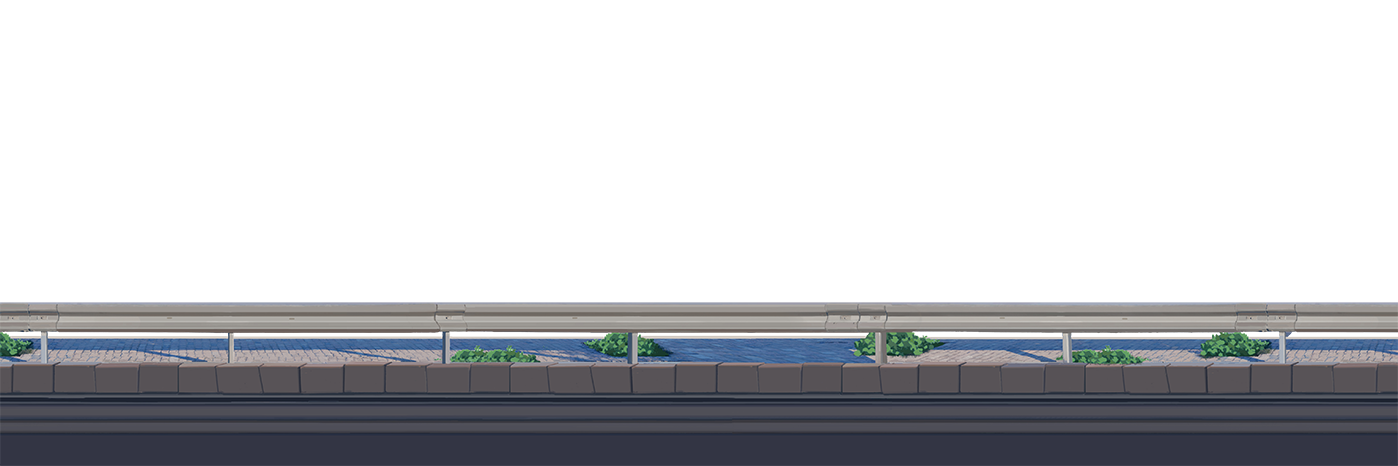
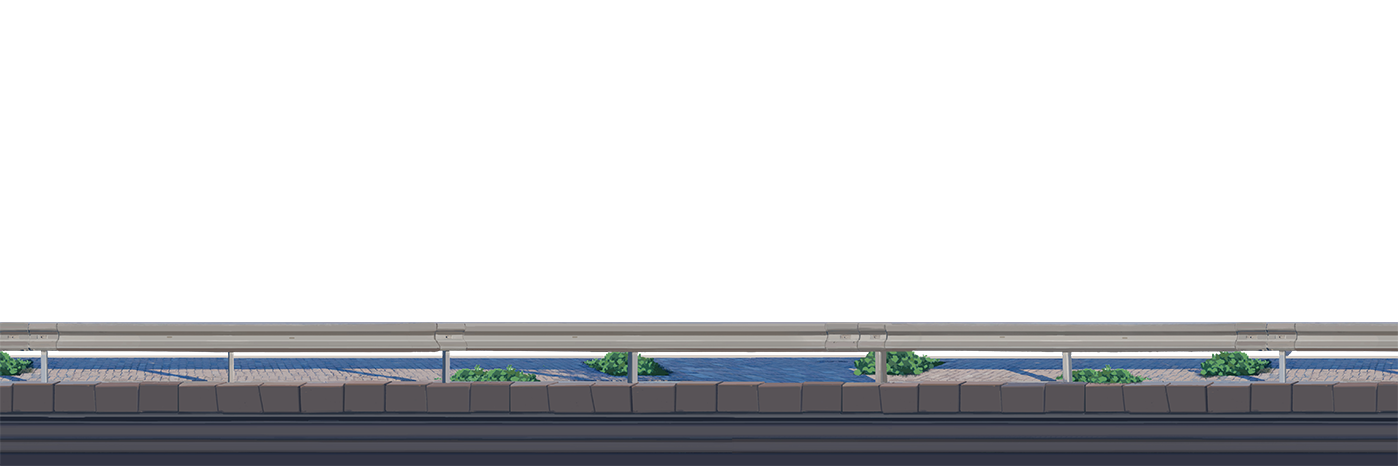
ver1

Changed region(s): [[0.0, 0.6309, 1.0, 0.9914]]

diff --git a/game.min.js b/game.min.js
@@ -1,1 +1,1 @@
-const canvasWidth=430,canvasHeight=932,bgWidth=1398,bgHeight=466,bgScale=1,wordBgColor=["#5bb2d0","#e4c36a","#f2741f"],words=[{word:"eat",attr:1,meaning:"吃"},{word:"apple",attr:2,meaning:"苹果"},{word:"red",attr:3,meaning:"红色"},],totalDistance=2e3;var stage,loader,inputbox,wordText,phase,car,meterPointer,meterText,travelMapCar,currentWordText,currentWordWrapper,acceleratingText,currPosition=0,drivingSpeed=0,drivingSpeedGoal=0,intervalLastMove=0,bonus=0;const bgSequence=["city1.back","city2.back","rural1.back","rural2.back","seaside1.back","seaside2.back"],fgSequence=["city1.front","city2.front","rural1.front","rural2.front","seaside.front","seaside.front"];var bgContainer=new createjs.Container,fgContainer=new createjs.Container,sequenceCounter=0;function init(){stage=new createjs.StageGL("gameCanvas"),createjs.Ticker.timingMode=createjs.Ticker.RAF_SYNCHED,createjs.Ticker.framerate=60,createjs.Ticker.addEventListener("tick",stage);var e=new createjs.Shape;e.graphics.beginLinearGradientFill(["#2573BB","#6CB8DA","#567A32"],[0,.85,1],0,0,0,932).drawRect(0,0,430,932),e.x=0,e.y=0,e.name="background",e.cache(0,0,430,932),stage.addChild(e),phase="city",(loader=new createjs.LoadQueue(!0)).addEventListener("complete",handleComplete),loader.loadManifest([{src:"./src/car.png",id:"car"},{src:"./src/city1-back.png",id:"city1.back"},{src:"./src/city1-front.png",id:"city1.front"},{src:"./src/city2-back.png",id:"city2.back"},{src:"./src/city2-front.png",id:"city2.front"},{src:"./src/rural1-back.jpg",id:"rural1.back"},{src:"./src/rural1-front.png",id:"rural1.front"},{src:"./src/rural2-back.jpg",id:"rural2.back"},{src:"./src/rural2-front.png",id:"rural2.front"},{src:"./src/seaside1-back.jpg",id:"seaside1.back"},{src:"./src/seaside2-back.jpg",id:"seaside2.back"},{src:"./src/seaside-front.png",id:"seaside.front"},{src:"./src/pointer.png",id:"pointer"},{src:"./src/clock.png",id:"clock"},{src:"./src/travelmap.png",id:"travelmap"},{src:"./src/travelmapcar.png",id:"travelmapcar"},],!0,"./"),stage.update()}function loadWords(){}function generateRandomWord(){let e=Math.floor(Math.random()*words.length),r=words[e].word,t=wordBgColor[words[e].attr-1];var a=new createjs.Text(r,"22px sans-serif","#000000");a.x=10,a.y=7;var n=a.getBounds();a.cache(n.x,n.y,n.width,n.height),null!=currentWordWrapper&&stage.removeChild(currentWordWrapper),currentWordWrapper=new createjs.Container,(wordBg=new createjs.Shape).graphics.beginFill(t).drawRoundRect(0,0,a.getMeasuredWidth()+20,34,10),wordBg.cache(0,0,a.getMeasuredWidth()+20,34),currentWordWrapper.addChild(wordBg),currentWordWrapper.addChild(a),currentWordWrapper.x=10,currentWordWrapper.y=470,stage.addChild(currentWordWrapper)}function handleComplete(){createInput(),createBg(),createCar(),createFg(),createMeter(),createTravelMap(),generateRandomWord(),createjs.Ticker.addEventListener("tick",handleTick)}function createInput(){var e=new createjs.Shape;e.graphics.beginFill("#EEEEEE").drawRect(0,0,430,80),e.x=0,e.y=466,e.cache(0,0,430,80),stage.addChild(e),(inputbox=document.createElement("input")).type="text",inputbox.style.position="fixed",inputbox.style.left="14px",inputbox.style.top="518px",inputbox.style.width="416px",inputbox.style.fontSize="20",inputbox.onkeydown=handleEnter,document.body.appendChild(inputbox),inputbox.focus()}function createBg(){bgSequence.map((e,r)=>{(obj=new createjs.Bitmap(loader.getResult(e))).x=1398*r,obj.y=0,obj.scale=1,bgContainer.addChild(obj)}),bgContainer.x=0,bgContainer.y=0,stage.addChild(bgContainer)}function createFg(){fgSequence.map((e,r)=>{obj1=new createjs.Bitmap(loader.getResult(e)),obj2=new createjs.Bitmap(loader.getResult(e)),obj1.x=2*r*1398,obj2.x=(2*r+1)*1398,obj1.y=0,obj2.y=0,obj1.scale=1,obj2.scale=1,fgContainer.addChild(obj1,obj2)}),fgContainer.x=0,fgContainer.y=0,stage.addChild(fgContainer)}function createCar(){(car=new createjs.Bitmap(loader.getResult("car"))).x=85,car.y=190,car.scale=.4,stage.addChild(car)}function createMeter(){var e=new createjs.Container,r=new createjs.Shape;r.alpha=.25,r.graphics.beginFill("#399205").drawRoundRect(0,0,100,123,15),r.cache(0,0,100,123);var t=new createjs.Bitmap(loader.getResult("clock")),a=new createjs.Bitmap(loader.getResult("pointer"));a.scale=110/300,a.x=-55,a.y=-55,(meterPointer=new createjs.Container).addChild(a),meterPointer.x=53,meterPointer.y=55.5,t.x=-4,t.y=0;var n=new createjs.Text("KM/H","12px sans-serif","#FFFFFF");n.textAlign="center",n.shadow=new createjs.Shadow("#000000",1,1,2);var i=n.getBounds();n.cache(i.x,i.y,i.width,i.height),n.x=51,n.y=111,(meterText=new createjs.Text(Math.round(drivingSpeed).toString(),"26px sans-serif","#FFFFFF")).textAlign="center",i=meterText.getBounds(),meterText.cache(i.x-i.width,i.y,3*i.width,i.height),meterText.x=51,meterText.y=80,(acceleratingText=new createjs.Text("加速中","22px sans-serif","#FFFFFF")).textAlign="center",i=acceleratingText.getBounds(),acceleratingText.cache(i.x,i.y,i.width,i.height),acceleratingText.x=51,acceleratingText.y=-24,e.addChild(r,n,meterText,acceleratingText,t,meterPointer),e.x=320,e.y=330,stage.addChild(e)}function updateMeter(){meterPointer.rotation=drivingSpeed/80*190-6,meterText.text=Math.round(drivingSpeed).toString(),meterText.updateCache(),bonus>0?acceleratingText.visible=!0:acceleratingText.visible=!1}function createTravelMap(){var e=new createjs.Container;e.x=45,e.y=50;var r=new createjs.Bitmap(loader.getResult("travelmap"));(travelMapCar=new createjs.Bitmap(loader.getResult("travelmapcar"))).x=0,travelMapCar.y=6,e.addChild(r,travelMapCar),stage.addChild(e)}function updateTravelMap(){travelMapCar.x=currPosition/2e3*340}function handleTick(e){currPosition+=e.delta/1e3*drivingSpeed,drivingSpeed+=(drivingSpeedGoal-drivingSpeed)*.1,currPosition<2e3?(bgContainer.x=-(1398*bgSequence.length-430)*(currPosition/2e3),fgContainer.x=-(2*bgSequence.length*1398-430)*(currPosition/2e3)):currPosition=0,intervalLastMove<=0?(bonus=0,drivingSpeedGoal=Math.max(0,drivingSpeedGoal-.01*e.delta)):intervalLastMove-=e.delta,updateMeter(),updateTravelMap()}function handleEnter(e){13==e.keyCode&&(inputbox.value="",drivingSpeedGoal=Math.min(80,drivingSpeedGoal+5+bonus),bonus=Math.min(35,bonus+5),intervalLastMove=4e3,generateRandomWord())}
+const canvasWidth=430,canvasHeight=466;var stage,loader,inputbox,wordText,car,meterPointer,meterText,travelMapCar,currentWordText,currentWordWrapper,acceleratingText,canvasScale=1;const bgWidth=1398,bgHeight=466;var bgScale=.8;const wordBgColor=["#5bb2d0","#e4c36a","#f2741f"];var words=[];const totalDistance=2e3;var currPosition=0,drivingSpeed=0,targetDrivingSpeed=0,intervalLastMove=0,bonus=0;const bgSequence=["city1.back","city2.back","rural1.back","rural2.back","seaside1.back","seaside2.back"],fgSequence=["city1.front","city2.front","rural1.front","rural2.front","seaside.front","seaside.front"];var bgContainer=new createjs.Container,fgContainer=new createjs.Container,sequenceCounter=0;function init(){(stage=new createjs.StageGL("gameCanvas")).setClearColor("#000000"),createjs.Ticker.timingMode=createjs.Ticker.RAF_SYNCHED,createjs.Ticker.framerate=60,createjs.Ticker.addEventListener("tick",stage),window.addEventListener("resize",handleResize),handleResize(),phase="city",(loader=new createjs.LoadQueue(!0)).addEventListener("complete",handleComplete),loader.loadManifest([{src:"./src/car.png",id:"car"},{src:"./src/city1-back.png",id:"city1.back"},{src:"./src/city1-front.png",id:"city1.front"},{src:"./src/city2-back.png",id:"city2.back"},{src:"./src/city2-front.png",id:"city2.front"},{src:"./src/rural1-back.jpg",id:"rural1.back"},{src:"./src/rural1-front.png",id:"rural1.front"},{src:"./src/rural2-back.jpg",id:"rural2.back"},{src:"./src/rural2-front.png",id:"rural2.front"},{src:"./src/seaside1-back.png",id:"seaside1.back"},{src:"./src/seaside2-back.png",id:"seaside2.back"},{src:"./src/seaside-front.png",id:"seaside.front"},{src:"./src/pointer.png",id:"pointer"},{src:"./src/clock.png",id:"clock"},{src:"./src/travelmap.png",id:"travelmap"},{src:"./src/travelmapcar.png",id:"travelmapcar"},],!0,"./"),loadWords(),stage.update()}function loadWords(){fetch("./src/words.json").then(e=>{if(!e.ok)throw Error(`HTTP error! Status: ${e.status}`);return e.json()}).then(e=>{if(!Array.isArray(e))throw Error("JSON data is not an array");words=e}).catch(e=>{console.error("Fetch error:",e)})}function generateRandomWord(){let e=Math.floor(Math.random()*words.length),r=words[e].meaning,t=wordBgColor[words[e].attr-1];currentWordText=words[e].word;var a=new createjs.Text(r,"22px sans-serif","#000000");a.x=10,a.y=7;var n=a.getBounds();a.cache(n.x,n.y,n.width,n.height),null!=currentWordWrapper&&stage.removeChild(currentWordWrapper),currentWordWrapper=new createjs.Container,(wordBg=new createjs.Shape).graphics.beginFill(t).drawRoundRect(0,0,a.getMeasuredWidth()+10,34,10),wordBg.cache(0,0,a.getMeasuredWidth()+20,34),currentWordWrapper.addChild(wordBg),currentWordWrapper.addChild(a),currentWordWrapper.x=10*canvasScale,currentWordWrapper.y=472*bgScale,stage.addChild(currentWordWrapper)}function handleComplete(){createInput(),createBg(),createCar(),createFg(),createMeter(),createTravelMap(),generateRandomWord(),createjs.Ticker.addEventListener("tick",handleTick)}function createInput(){var e=new createjs.Shape;e.graphics.beginFill("#EEEEEE").drawRect(0,0,430,80),e.x=0,e.y=466*bgScale,e.cache(0,0,430,80),stage.addChild(e),(inputbox=document.createElement("input")).type="text",inputbox.style.margin="0px",inputbox.style.position="fixed",inputbox.style.left="6px",resizeInputBox(),inputbox.onkeydown=handleEnter,document.body.appendChild(inputbox),inputbox.focus()}function resizeInputBox(){inputbox.style.top=522*canvasScale*bgScale+"px",inputbox.style.width=430*canvasScale-12+"px",inputbox.style.fontSize=Math.round(20*canvasScale)+"px"}function createBg(){bgSequence.map((e,r)=>{(obj=new createjs.Bitmap(loader.getResult(e))).x=1398*r*bgScale,obj.y=0,obj.scale=bgScale,bgContainer.addChild(obj)}),bgContainer.x=0,bgContainer.y=0,stage.addChild(bgContainer)}function createFg(){fgSequence.map((e,r)=>{obj1=new createjs.Bitmap(loader.getResult(e)),obj2=new createjs.Bitmap(loader.getResult(e)),obj1.x=2*r*1398*bgScale,obj2.x=(2*r+1)*1398*bgScale,obj1.y=0,obj2.y=0,obj1.scale=bgScale,obj2.scale=bgScale,fgContainer.addChild(obj1,obj2)}),fgContainer.x=0,fgContainer.y=0,stage.addChild(fgContainer)}function createCar(){(car=new createjs.Bitmap(loader.getResult("car"))).x=85,car.y=180*bgScale,car.scale=.4,stage.addChild(car)}function createMeter(){var e=new createjs.Container,r=new createjs.Shape;r.alpha=.25,r.graphics.beginFill("#399205").drawRoundRect(0,0,100,123,15),r.cache(0,0,100,123);var t=new createjs.Bitmap(loader.getResult("clock")),a=new createjs.Bitmap(loader.getResult("pointer"));a.scale=110/300,a.x=-55,a.y=-55,(meterPointer=new createjs.Container).addChild(a),meterPointer.x=53,meterPointer.y=55.5,t.x=-4,t.y=0;var n=new createjs.Text("KM/H","12px sans-serif","#FFFFFF");n.textAlign="center",n.shadow=new createjs.Shadow("#000000",1,1,2);var i=n.getBounds();n.cache(i.x,i.y,i.width,i.height),n.x=51,n.y=111,(meterText=new createjs.Text(Math.round(drivingSpeed).toString(),"26px sans-serif","#FFFFFF")).textAlign="center",i=meterText.getBounds(),meterText.cache(i.x-i.width,i.y,3*i.width,i.height),meterText.x=51,meterText.y=80,(acceleratingText=new createjs.Text("加速中","22px sans-serif","#FFFFFF")).textAlign="center",i=acceleratingText.getBounds(),acceleratingText.cache(i.x,i.y,i.width,i.height),acceleratingText.x=51,acceleratingText.y=-24,e.addChild(r,n,meterText,acceleratingText,t,meterPointer),e.scale=.75,e.x=347.5,e.y=466*bgScale-99.75,stage.addChild(e)}function updateMeter(){meterPointer.rotation=drivingSpeed/80*190-6,meterText.text=Math.round(drivingSpeed).toString(),meterText.updateCache(),bonus>0?acceleratingText.visible=!0:acceleratingText.visible=!1}function createTravelMap(){var e=new createjs.Container,r=new createjs.Bitmap(loader.getResult("travelmap"));(travelMapCar=new createjs.Bitmap(loader.getResult("travelmapcar"))).x=0,travelMapCar.y=6,e.addChild(r,travelMapCar),e.scale=.75,e.x=141.25,e.y=10,stage.addChild(e)}function updateTravelMap(){travelMapCar.x=currPosition/2e3*340}function handleTick(e){currPosition+=e.delta/1e3*drivingSpeed,drivingSpeed+=(targetDrivingSpeed-drivingSpeed)*.1,currPosition<2e3?(bgContainer.x=-(1398*bgSequence.length*bgScale-430*canvasScale)*(currPosition/2e3),fgContainer.x=-(2*bgSequence.length*1398*bgScale-430*canvasScale)*(currPosition/2e3)):currPosition=0,intervalLastMove<=0?(bonus=0,targetDrivingSpeed=Math.max(0,targetDrivingSpeed-.01*e.delta)):intervalLastMove-=e.delta,updateMeter(),updateTravelMap()}function handleEnter(e){13==e.keyCode&&(currentWordText==inputbox.value&&(targetDrivingSpeed=Math.min(80,targetDrivingSpeed+5+bonus),bonus=Math.min(35,bonus+5),intervalLastMove=4e3,generateRandomWord()),inputbox.value="")}function handleResize(e){w=window.innerWidth,h=window.innerHeight,canvasScale=Math.min(1,w/430),stage.scale=canvasScale,inputbox&&resizeInputBox(),stage.update()}
